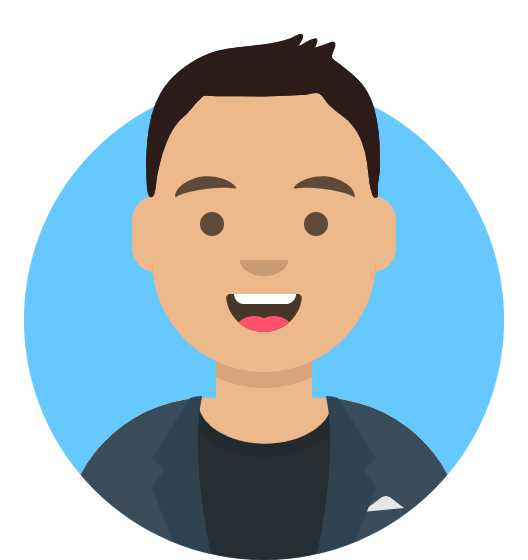
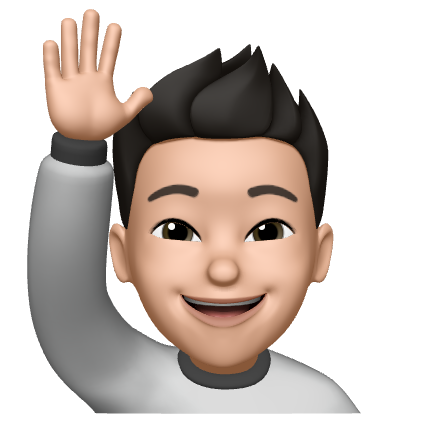
new ui

diff --git a/src/components/About.vue b/src/components/About.vue
@@ -1,44 +1,40 @@
 <template>
   <section id="about">
-    <div class="bg-primary">
-      <div class="container flex justify-center items-center py-28">
-        <div class="w-full lg:w-1/2 mx-6 lg:mx-0 text-center text-white">
-          <p class="font-extrabold text-4xl mb-6">Who Am I?</p>
+    <div class="bg-white">
+      <div class="container flex justify-center items-center pt-24">
+        <div class="w-full lg:w-1/2 mx-6 md:mx-0 text-black">
+          <SectionTitle image-path="thinking" title="Who Am I?" />
           <p class="font-extralight text-xl mb-6">
-            <!-- I am currently working as a Web/Mobile App Developer for a digital
-            agency in Hong Kong. My job consists of turning design wireframes
-            into websites (mainly e-commerce websites with custom CMS) and
-            mobile applications. During my free time, I spend time on learning
-            new technologies as well as occational gaming with friends. -->
-            I graduated from the University of Leeds in 2019 with a Bachelor's
-            degree in Electronic and Electrical Engineering. I'm currently a
-            Web/Mobile Application Developer for a digital agency based in Hong
-            Kong. Outside of work, I'm always exploring new technologies, as
-            well as do muay thai and occasional gaming with friends.
+            I was born in Hong Kong and can speak fluent
+            <span class="font-extrabold">Cantonese</span>,
+            <span class="font-extrabold">Mandarin</span> and
+            <span class="font-extrabold">English</span>. I completed my
+            secondary and higher educations in the UK, and graduated from the
+            University of Leeds with a Bachelor's degree in
+            <span class="font-extrabold"
+              >Electronic and Electrical Engineering</span
+            >. After working in the field for a year, I have decided to pursue a
+            career in Programming and have been working as a web/mobile
+            application developer since November 2020.
           </p>
-          <button
-            class="
-              bg-primary
-              hover:bg-white
-              text-white
-              font-bold
-              hover:text-primary
-              border border-white
-              hover:border-primary
-              rounded-md
-              px-12
-              py-3
-              transition
-              ease-in-out
-              duration-300
-              transform
-              hover:scale-110
-            "
-          >
-            See My Resume
-          </button>
+          <p class="font-extralight text-xl mb-6">
+            Outside of work, I enjoy exploring new technologies to learn as well
+            as doing exercise such as Muay Thai and occasional gaming with
+            friends. I also enjoy travelling a lot, hopefully I can do that once
+            COVID is gone.
+          </p>
         </div>
       </div>
     </div>
   </section>
 </template>
+
+<script>
+import SectionTitle from "@/components/SectionTitle";
+export default {
+  components: {
+    SectionTitle,
+  },
+  setup() {},
+};
+</script>

diff --git a/src/components/Hero.vue b/src/components/Hero.vue
@@ -15,16 +15,16 @@
         "
       >
         <div class="hero-avatar my-8">
-          <img alt="Avatar" src="../assets/svg/avatar.svg" />
+          <img alt="Avatar" src="../assets/images/avatar.png" />
+          <!-- <img alt="Avatar" src="../assets/svg/avatar.svg" /> -->
         </div>
         <div class="hero-header text-center md:text-left ml-0 md:ml-6">
-          <p class="font-extrabold text-5xl mb-6">Hello, I am Nixon.</p>
+          <p class="font-extrabold text-6xl md:text-8xl mb-6 title">
+            Hello, I am Nixon.
+          </p>
           <p class="hero-subtitle font-light text-xl lg:text-2xl mb-6">
             I create amazing things on the internet for a living and I love what
             I do.
-          </p>
-          <p class="mb-6">
-            Currently a Web/Mobile Application Developer based in Hong Kong.
           </p>
         </div>
       </div>
@@ -33,6 +33,24 @@
 </template>
 
 <style scoped>
+.title {
+  background-color: red;
+
+  /* Create the gradient. */
+  background-image: linear-gradient(135deg, #b92b27, #1565c0);
+
+  /* Set the background size and repeat properties. */
+  background-size: 100%;
+  background-repeat: repeat;
+
+  /* Use the text as a mask for the background. */
+  /* This will show the gradient as a text color rather than element bg. */
+  background-clip: text;
+  -webkit-background-clip: text;
+  -webkit-text-fill-color: transparent;
+  -moz-background-clip: text;
+  -moz-text-fill-color: transparent;
+}
 .hero-avatar {
   width: 200px;
   height: 200px;

diff --git a/src/components/SectionTitle.vue b/src/components/SectionTitle.vue
@@ -1,0 +1,76 @@
+<template>
+  <div class="flex items-center h-24 mb-6">
+    <div
+      class="w-24 h-24 border rounded-3xl p-2 h-full shadow"
+      v-if="imagePath"
+    >
+      <div class="h-full w-full rounded-2xl icon-box">
+        <img
+          class="h-full w-full"
+          :src="require(`../assets/images/${imagePath}.png`)"
+          alt="thinking"
+        />
+      </div>
+    </div>
+    <p
+      class="font-extrabold text-4xl md:text-5xl gradient-text"
+      :class="{ 'ml-6': imagePath }"
+    >
+      {{ title }}
+    </p>
+  </div>
+</template>
+
+<script>
+export default {
+  props: {
+    imagePath: {
+      type: String,
+      default: "",
+    },
+    title: {
+      type: String,
+      default: "",
+    },
+  },
+  setup() {},
+};
+</script>
+
+<style scoped>
+.icon-box {
+  background: linear-gradient(
+      135deg,
+      rgb(255, 215, 178) 10.55%,
+      rgb(252, 165, 191) 26.09%,
+      rgb(255, 227, 128) 41.63%,
+      rgb(149, 229, 202) 56.79%,
+      rgb(141, 208, 252) 70.78%,
+      rgb(195, 202, 211) 85.16%
+    )
+    0% 0% / 500% 500%;
+  animation: 25s ease 0s infinite normal none running gradientKeyframes;
+}
+
+@keyframes gradientKeyframes {
+  0% {
+    background-position: 0 0;
+  }
+
+  25% {
+    background-position: 50% 50%;
+  }
+
+  50% {
+    background-position: 100% 100%;
+  }
+
+  75% {
+    background-position: 50% 50%;
+  }
+
+  100% {
+    background-position: 0 0;
+  }
+}
+</style>

diff --git a/src/components/Description.vue b/src/components/Description.vue
@@ -1,0 +1,25 @@
+<template>
+  <section id="description">
+    <div class="bg-white">
+      <div class="container flex justify-center items-center">
+        <div class="w-full lg:w-1/2 mx-6 md:mx-0">
+          <p class="text-2xl mb-6">
+            My name is Nixon Pang and I'm a Programmer with professional
+            experience in creating websites and mobile applications for both
+            Android and iOS.
+          </p>
+          <p class="font-extralight text-xl mb-6">
+            I am currently working as a Web/Mobile Application developer at a
+            digital agency based in Hong Kong. My tasks include turning design
+            wireframes and client's ideas into reality.
+          </p>
+          <p class="font-extralight text-xl mb-6">
+            While I have the right to work in both Canada and Hong Kong, and I'm
+            open to relocation on a global level should an opportunity arises.
+          </p>
+          <p class="font-extralight text-xl">Linkedin</p>
+        </div>
+      </div>
+    </div>
+  </section>
+</template>

diff --git a/src/components/Skills.vue b/src/components/Skills.vue
@@ -1,0 +1,25 @@
+<template>
+  <section id="skills">
+    <div class="bg-white">
+      <div class="container flex justify-center items-center pt-24">
+        <div class="w-full lg:w-1/2 mx-6 md:mx-0 text-black">
+          <SectionTitle image-path="computer" title="My Tech Stack" />
+          <p class="font-extralight text-xl">
+            I use variety of technologies for both work and personally, such as
+            Go, Vue, HTML+CSS, SCSS and Flutter.
+          </p>
+        </div>
+      </div>
+    </div>
+  </section>
+</template>
+
+<script>
+import SectionTitle from "@/components/SectionTitle";
+export default {
+  components: {
+    SectionTitle,
+  },
+  setup() {},
+};
+</script>

diff --git a/src/views/Home.vue b/src/views/Home.vue
@@ -1,20 +1,26 @@
 <template>
   <div class="home">
     <Hero />
+    <Description />
     <About />
+    <Skills />
     <Portfolio />
   </div>
 </template>
 
 <script>
 import Hero from "@/components/Hero";
+import Description from "@/components/Description";
 import About from "@/components/About";
+import Skills from "@/components/Skills";
 import Portfolio from "@/components/Portfolio";
 export default {
   name: "Home",
   components: {
     Hero,
     About,
+    Description,
+    Skills,
     Portfolio,
   },
 };
